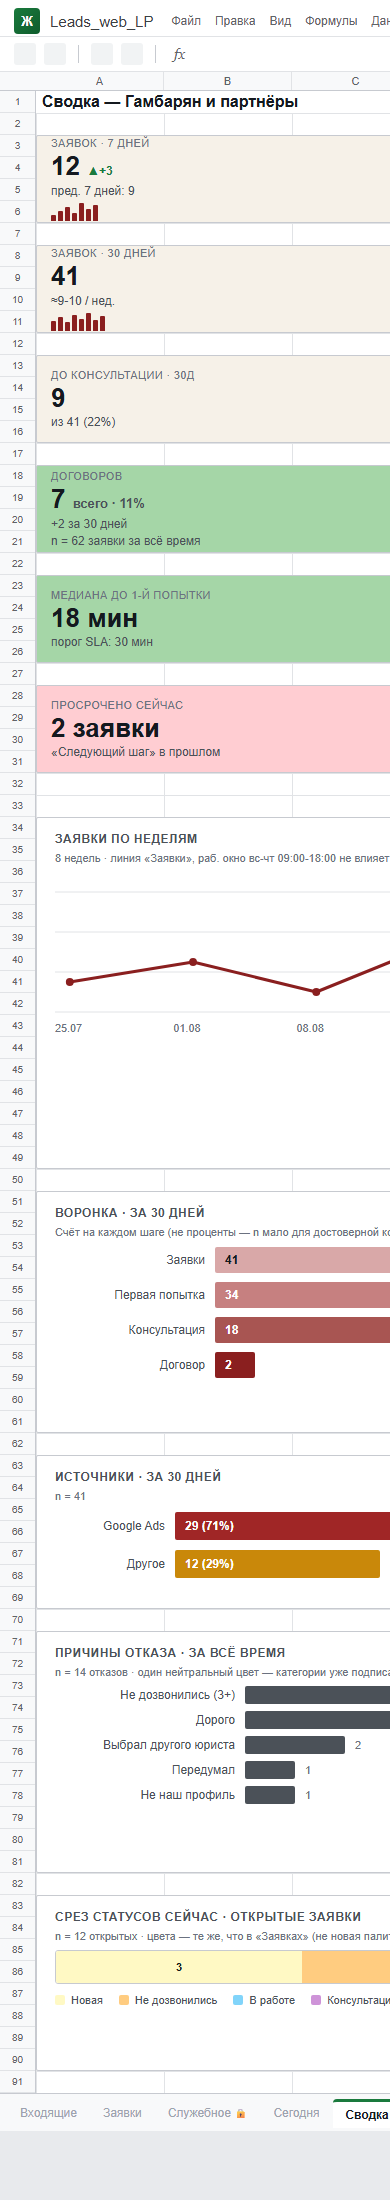
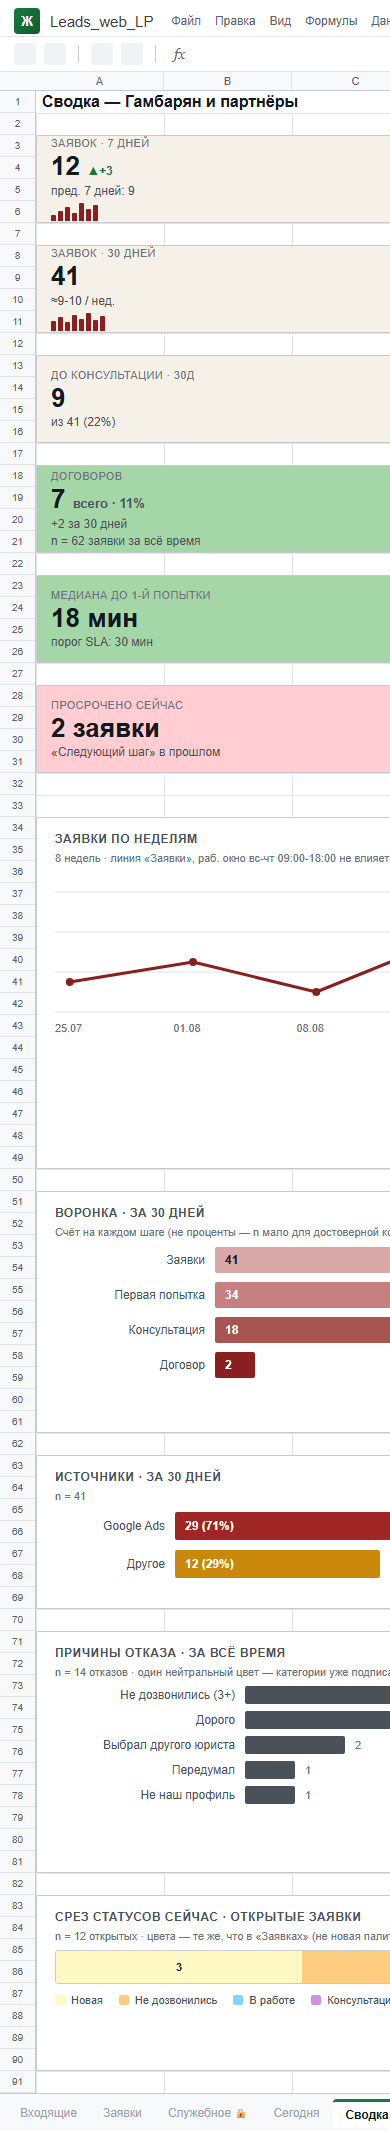
docs: summary-mock desktop-row correction + resolve subject-line contradiction
Owner correction (a): summary-mock.html gains a min-width:1200px media
query that lays the 6 KPI tiles out in one row (matching the desktop
screenshot) while leaving the default (phone) layout untouched -
regenerated summary-1440.png/summary-390.png accordingly. This is a
mock-only change; the real Sheets implementation
(ensureSummaryFormulas_) keeps the one-column stack from DESIGN.md §2.1
as written, since a single spreadsheet has one column width for the
whole sheet - "row on desktop, stack on phone" isn't achievable in one
real grid (already noted in the dashboard commit's docstring). Fixed the
390 screenshot capture to clip to 390px width instead of fullPage (which
was capturing the mock's full fixed 1160px width regardless of viewport).

MINI-CRM-DESIGN.md: updated §5.6, §8 and §12 item 2 to reflect the
approved decision that the new-lead email carries name/phone/email and
the subject carries № + name - the old Codex-review-era language ("no
name/phone in notifications") pre-dates Task B and now contradicts the
shipped EmailTemplates.gs. Also updated the recipients decision entry to
the confirmed 5-address office_recipients list.

diff --git a/docs/crm-dashboard/summary-mock.html b/docs/crm-dashboard/summary-mock.html
@@ -57,6 +57,28 @@
   .spark{display:flex;align-items:flex-end;gap:2px;height:20px;margin-top:2px;}
   .spark i{display:block;width:5px;background:var(--wine);border-radius:1px 1px 0 0;}
 
+  /* Owner correction (build-round 2026-09-23, "да" на дашборд): на десктопе
+     (>=1200px, скриншот 1440) все 6 KPI-плашек — В ОДИН РЯД, не одна под
+     другой. На телефоне (390) — БЕЗ ИЗМЕНЕНИЙ, как в исходном мокапе (правило
+     .kpi-tile ниже применяется ТОЛЬКО внутри media query).
+     ВАЖНО: это правка МОКАПА (статичный HTML/CSS превью), не реального грида
+     Google Sheets — у листа одна ширина колонки на весь лист (design §2.1),
+     поэтому "ряд на десктопе, столбец на телефоне" для НАСТОЯЩЕЙ таблицы
+     недостижимо в одной физической сетке; см. ensureSummaryFormulas_ в
+     Sheets.gs, которая реализует design §2.1 "как написано" (один столбец).
+     Ниже графики остаются на прежних абсолютных строках (34+) — в один ряд
+     KPI-зона схлопывается по высоте, поэтому над графиками остаётся пустой
+     отступ на этом скриншоте; это ограничение эскиза, не финальная вёрстка. */
+  @media (min-width: 1200px) {
+    .kpi-tile.kpi-1{grid-column:1/2 !important;grid-row:3/11 !important;}
+    .kpi-tile.kpi-2{grid-column:2/3 !important;grid-row:3/11 !important;}
+    .kpi-tile.kpi-3{grid-column:3/4 !important;grid-row:3/11 !important;}
+    .kpi-tile.kpi-4{grid-column:4/5 !important;grid-row:3/11 !important;}
+    .kpi-tile.kpi-5{grid-column:5/6 !important;grid-row:3/11 !important;}
+    .kpi-tile.kpi-6{grid-column:6/7 !important;grid-row:3/11 !important;}
+    .kpi-tile .spark{display:none;} /* спарклайн не помещается в узкую плашку в ряд */
+  }
+
   .chart-block{border:1px solid var(--line-strong);background:#fff;padding:14px 18px 10px;border-radius:2px;}
   .chart-title{font-size:12px;font-weight:700;color:var(--ink2);text-transform:uppercase;letter-spacing:.04em;margin-bottom:6px;}
   .chart-sub{font-size:11px;color:var(--ink3);margin-bottom:8px;}
@@ -111,7 +133,7 @@
       <div class="g sheet-updated" style="grid-column:5/9;grid-row:1/2;">Обновлено: 23.09.2026 14:32</div>
 
       <!-- KPI 1: rows 3-6 -->
-      <div class="g card" style="grid-column:1/5;grid-row:3/7;">
+      <div class="g card kpi-tile kpi-1" style="grid-column:1/5;grid-row:3/7;">
         <div class="label">Заявок · 7 дней</div>
         <div class="big">12 <span class="delta-up">&#9650;+3</span></div>
         <div class="sub">пред. 7 дней: 9</div>
@@ -119,7 +141,7 @@
       </div>
 
       <!-- KPI 2: rows 8-11 -->
-      <div class="g card" style="grid-column:1/5;grid-row:8/12;">
+      <div class="g card kpi-tile kpi-2" style="grid-column:1/5;grid-row:8/12;">
         <div class="label">Заявок · 30 дней</div>
         <div class="big">41</div>
         <div class="sub">≈9-10 / нед.</div>
@@ -127,14 +149,14 @@
       </div>
 
       <!-- KPI 3: rows 13-16 -->
-      <div class="g card" style="grid-column:1/5;grid-row:13/17;">
+      <div class="g card kpi-tile kpi-3" style="grid-column:1/5;grid-row:13/17;">
         <div class="label">До консультации · 30д</div>
         <div class="big">9</div>
         <div class="sub">из 41 (22%)</div>
       </div>
 
       <!-- KPI 4: rows 18-21 -->
-      <div class="g card good" style="grid-column:1/5;grid-row:18/22;">
+      <div class="g card good kpi-tile kpi-4" style="grid-column:1/5;grid-row:18/22;">
         <div class="label">Договоров</div>
         <div class="big">7 <span class="sub" style="font-size:13px;">всего · 11%</span></div>
         <div class="sub">+2 за 30 дней</div>
@@ -142,14 +164,14 @@
       </div>
 
       <!-- KPI 5: rows 23-26 -->
-      <div class="g card good" style="grid-column:1/5;grid-row:23/27;">
+      <div class="g card good kpi-tile kpi-5" style="grid-column:1/5;grid-row:23/27;">
         <div class="label">Медиана до 1-й попытки</div>
         <div class="big">18 мин</div>
         <div class="sub">порог SLA: 30 мин</div>
       </div>
 
       <!-- KPI 6: rows 28-31 -->
-      <div class="g card bad" style="grid-column:1/5;grid-row:28/32;">
+      <div class="g card bad kpi-tile kpi-6" style="grid-column:1/5;grid-row:28/32;">
         <div class="label">Просрочено сейчас</div>
         <div class="big">2 заявки</div>
         <div class="sub">«Следующий шаг» в прошлом</div>
